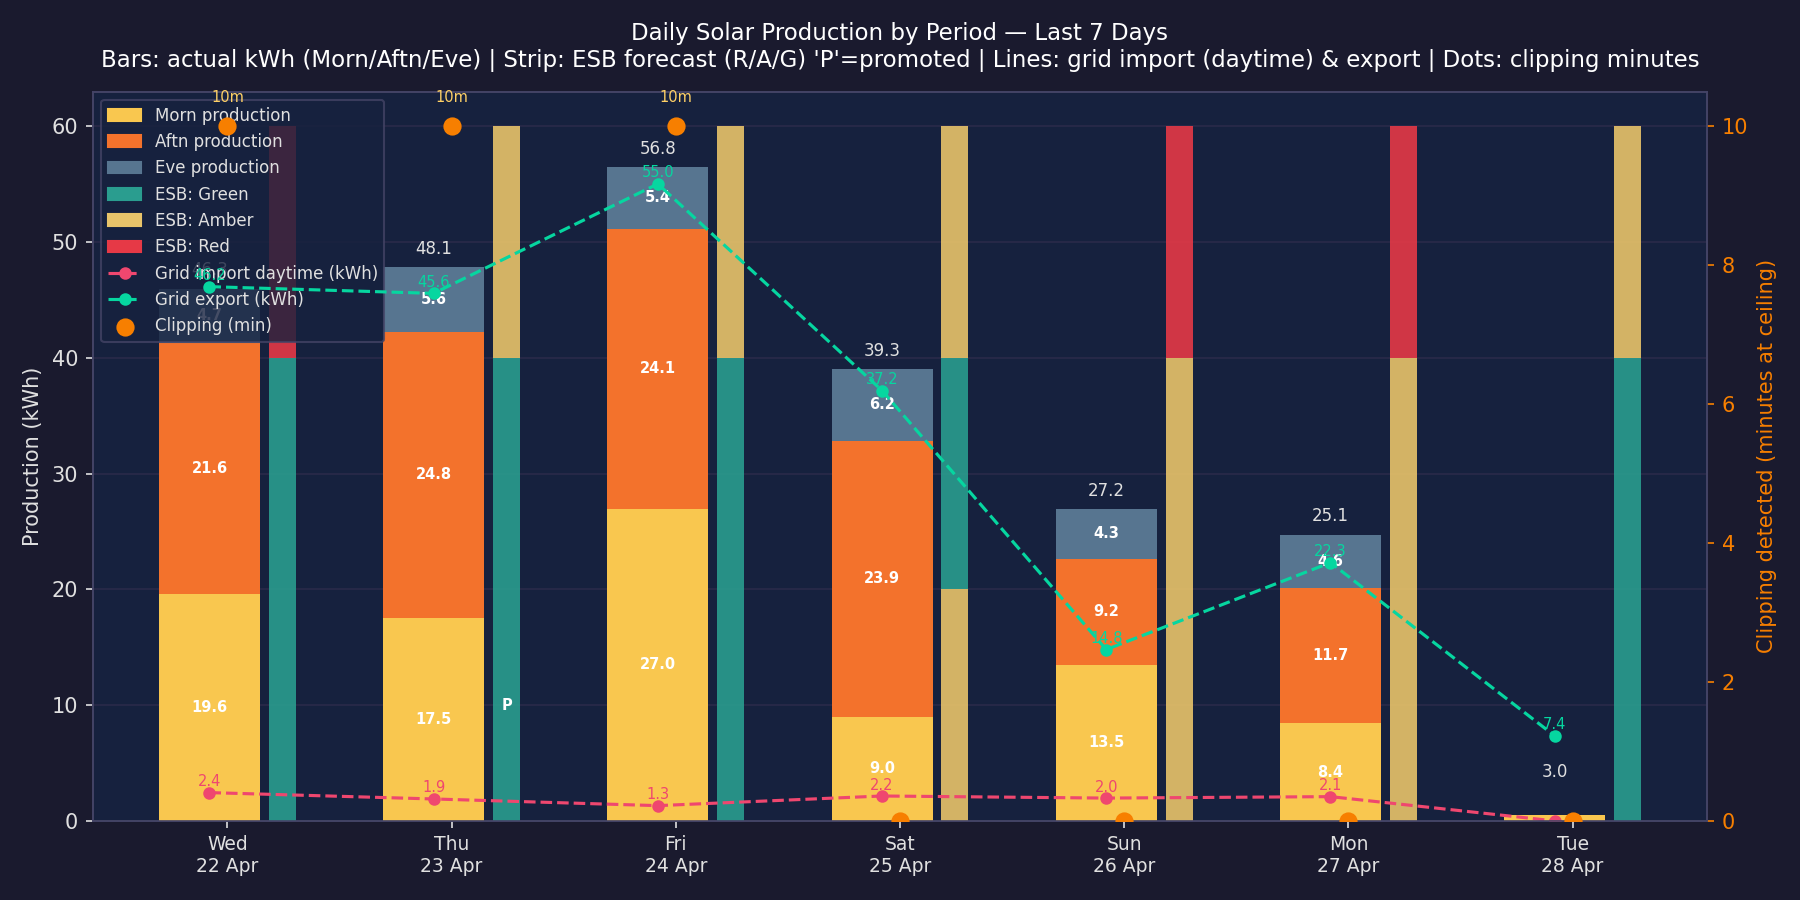
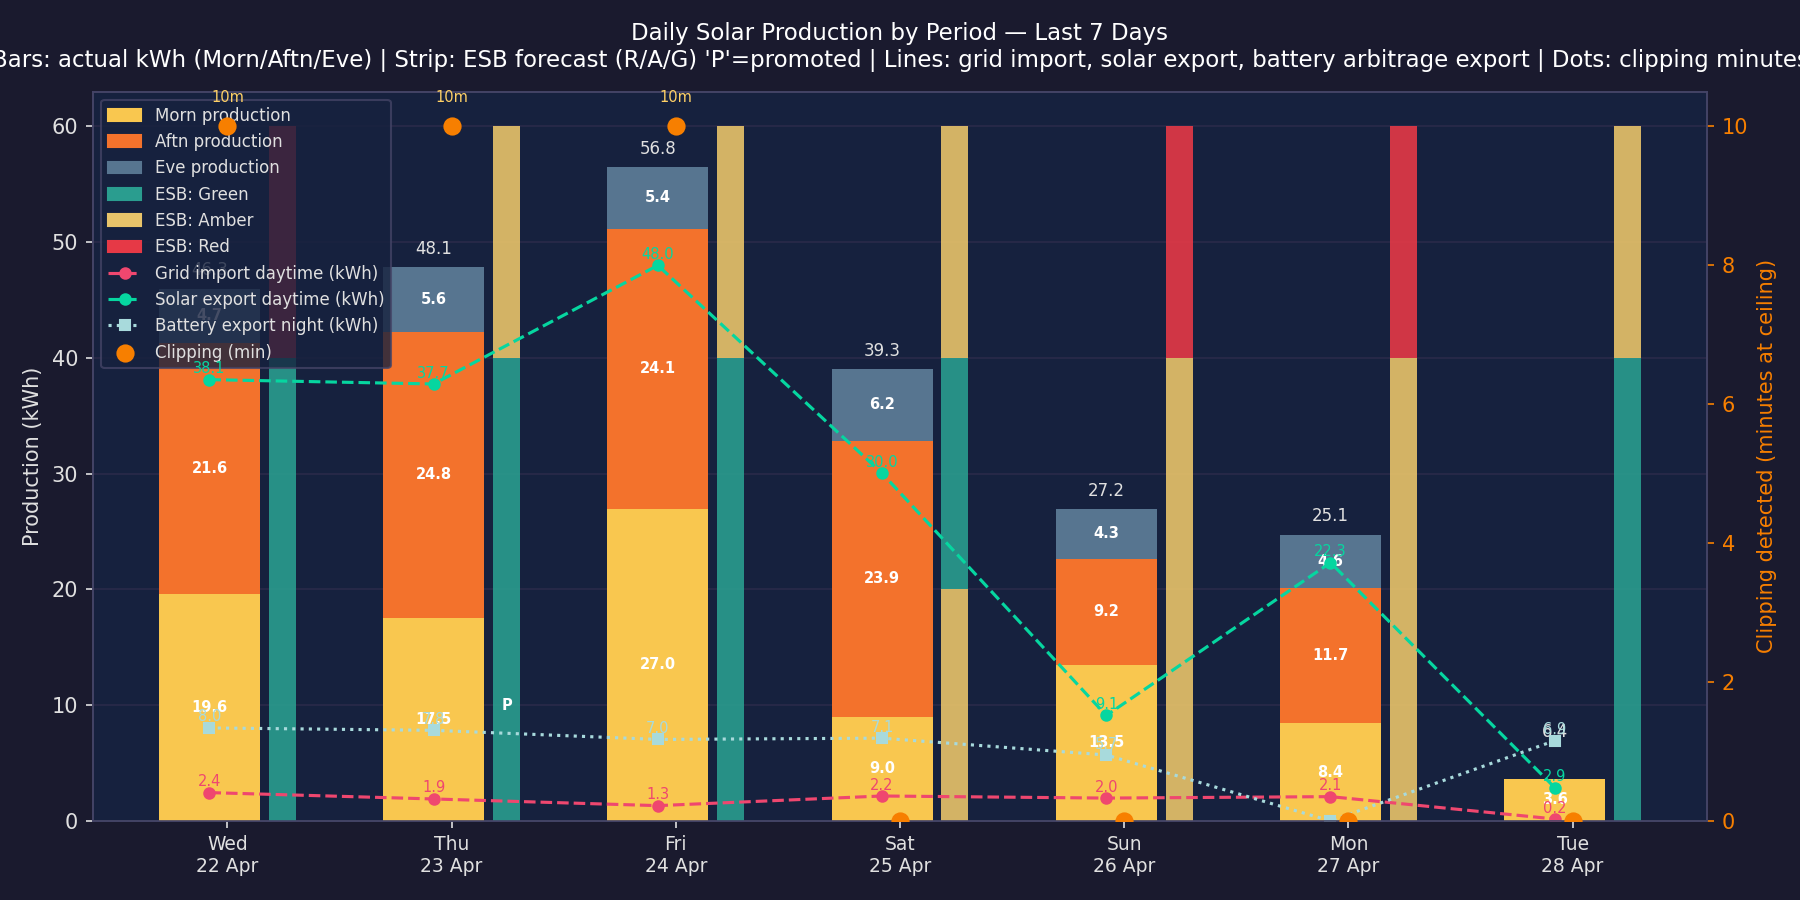
Split grid export into daytime solar and night battery arbitrage on clipping chart
The single export line couldn't distinguish between solar export (daytime, surplus
from PV) and battery arbitrage export (overnight, discharge before cheap rate then
recharge at lower tariff). Now shown as two separate lines with distinct styles.

Also updates the README Solar Clipping Chart section to explain both lines.

diff --git a/scripts/solar_clipping_chart.py b/scripts/solar_clipping_chart.py
@@ -138,12 +138,14 @@ def compute_esb_forecast(comparisons: list[dict]) -> dict[date, dict[str, str]]:
 
 
 def compute_grid_flows(telemetry: list[dict]) -> dict[date, dict[str, float]]:
-    """Return daily daytime grid import and total grid export in kWh per day.
+    """Return daily grid import, daytime solar export, and night battery export in kWh.
 
     Import is restricted to DAYTIME_HOURS (08:00–22:59) to exclude cheap-rate charging.
-    Export covers all hours.
+    Export is split: daytime (solar-driven) vs night (battery arbitrage, cheap-rate window).
     """
-    flows: dict[date, dict[str, float]] = defaultdict(lambda: {"import": 0.0, "export": 0.0})
+    flows: dict[date, dict[str, float]] = defaultdict(
+        lambda: {"import": 0.0, "export_day": 0.0, "export_night": 0.0}
+    )
     for r in telemetry:
         power = r["energy_flow"].get("buySellPower")
         if power is None:
@@ -154,7 +156,10 @@ def compute_grid_flows(telemetry: list[dict]) -> dict[date, dict[str, float]]:
         if power < 0 and h in DAYTIME_HOURS:
             flows[d]["import"] += abs(power) * TICK_HOURS
         elif power > 0:
-            flows[d]["export"] += power * TICK_HOURS
+            if h in DAYTIME_HOURS:
+                flows[d]["export_day"] += power * TICK_HOURS
+            else:
+                flows[d]["export_night"] += power * TICK_HOURS
     return dict(flows)
 
 
@@ -236,20 +241,26 @@ def main() -> None:
                          fontsize=7, color="white", fontweight="bold", zorder=5)
             fcast_bottom += STRIP_SECTION_H
 
-    # Grid import (daytime) and export lines on primary axis
+    # Grid import and split export lines on primary axis
     import_kwh = [grid_flows.get(d, {}).get("import", 0.0) for d in days]
-    export_kwh = [grid_flows.get(d, {}).get("export", 0.0) for d in days]
+    export_day_kwh = [grid_flows.get(d, {}).get("export_day", 0.0) for d in days]
+    export_night_kwh = [grid_flows.get(d, {}).get("export_night", 0.0) for d in days]
     ax1.plot(prod_centers, import_kwh, color="#ef476f", linewidth=1.5,
-             linestyle="--", marker="o", markersize=5, zorder=6, label="Grid import (daytime kWh)")
-    ax1.plot(prod_centers, export_kwh, color="#06d6a0", linewidth=1.5,
-             linestyle="--", marker="o", markersize=5, zorder=6, label="Grid export (kWh)")
-    for i, (imp, exp) in enumerate(zip(import_kwh, export_kwh)):
+             linestyle="--", marker="o", markersize=5, zorder=6, label="Grid import daytime (kWh)")
+    ax1.plot(prod_centers, export_day_kwh, color="#06d6a0", linewidth=1.5,
+             linestyle="--", marker="o", markersize=5, zorder=6, label="Solar export daytime (kWh)")
+    ax1.plot(prod_centers, export_night_kwh, color="#a8dadc", linewidth=1.5,
+             linestyle=":", marker="s", markersize=5, zorder=6, label="Battery export night (kWh)")
+    for i, (imp, exp_d, exp_n) in enumerate(zip(import_kwh, export_day_kwh, export_night_kwh)):
         if imp > 0.1:
             ax1.text(prod_centers[i], imp + 0.3, f"{imp:.1f}",
                      ha="center", va="bottom", fontsize=7, color="#ef476f", zorder=7)
-        if exp > 0.1:
-            ax1.text(prod_centers[i], exp + 0.3, f"{exp:.1f}",
+        if exp_d > 0.1:
+            ax1.text(prod_centers[i], exp_d + 0.3, f"{exp_d:.1f}",
                      ha="center", va="bottom", fontsize=7, color="#06d6a0", zorder=7)
+        if exp_n > 0.1:
+            ax1.text(prod_centers[i], exp_n + 0.3, f"{exp_n:.1f}",
+                     ha="center", va="bottom", fontsize=7, color="#a8dadc", zorder=7)
 
     # Clipping on secondary axis as scatter markers
     clip_mins = [clipping.get(d, 0) * TICK_MINUTES for d in days]
@@ -276,7 +287,7 @@ def main() -> None:
 
     ax1.set_title("Daily Solar Production by Period — Last 7 Days\n"
                   "Bars: actual kWh (Morn/Aftn/Eve) | Strip: ESB forecast (R/A/G) 'P'=promoted | "
-                  "Lines: grid import (daytime) & export | Dots: clipping minutes",
+                  "Lines: grid import, solar export, battery arbitrage export | Dots: clipping minutes",
                   color="#ffffff", fontsize=11, pad=12)
 
     # Legend
@@ -288,11 +299,13 @@ def main() -> None:
     ]
     import_line = plt.Line2D([0], [0], color="#ef476f", linewidth=1.5, linestyle="--",
                              marker="o", markersize=5, label="Grid import daytime (kWh)")
-    export_line = plt.Line2D([0], [0], color="#06d6a0", linewidth=1.5, linestyle="--",
-                             marker="o", markersize=5, label="Grid export (kWh)")
+    export_day_line = plt.Line2D([0], [0], color="#06d6a0", linewidth=1.5, linestyle="--",
+                                 marker="o", markersize=5, label="Solar export daytime (kWh)")
+    export_night_line = plt.Line2D([0], [0], color="#a8dadc", linewidth=1.5, linestyle=":",
+                                   marker="s", markersize=5, label="Battery export night (kWh)")
     clip_dot = plt.scatter([], [], color="#f77f00", s=60, label="Clipping (min)")
     ax1.legend(
-        handles=prod_patches + fcast_patches + [import_line, export_line, clip_dot],
+        handles=prod_patches + fcast_patches + [import_line, export_day_line, export_night_line, clip_dot],
         facecolor="#16213e", edgecolor="#444466", labelcolor="#e0e0e0",
         fontsize=8, loc="upper left",
     )

diff --git a/README.md b/README.md
@@ -913,8 +913,11 @@ Three equal-height coloured sections show the ESB forecast that was active at th
 **Grid import line (pink dashed, with dots)**
 Daily kWh imported from the grid during daytime hours only (08:00–23:00 by default, controlled by `CHEAP_RATE_END_HOUR` / `CHEAP_RATE_START_HOUR` in settings). Cheap-rate night imports are excluded — those are expected and deliberate.
 
-**Grid export line (mint green dashed, with dots)**
-Daily kWh exported to the grid across all hours. Includes both daytime export windows triggered by the scheduler and any pre-cheap-rate evening export.
+**Solar export line (mint green dashed, with dots)**
+kWh exported to the grid during daytime hours (08:00–23:00). This is surplus solar the battery couldn't absorb, exported when the scheduler opens a GRID_EXPORT window.
+
+**Battery arbitrage export line (light blue dotted, with squares)**
+kWh exported to the grid during cheap-rate hours (23:00–08:00). This is the pre-cheap-rate export strategy: the battery is discharged to grid before the cheap rate opens, then recharged overnight at the lower tariff. Profit = (export rate × kWh exported) − (cheap rate × kWh recharged).
 
 **Clipping markers (orange dots, right axis)**
 Total minutes during the day where the inverter was likely at its output ceiling (5.5 kW). High clipping usually means the battery was full and export wasn't active — the promotion and export logic exists to reduce this.
